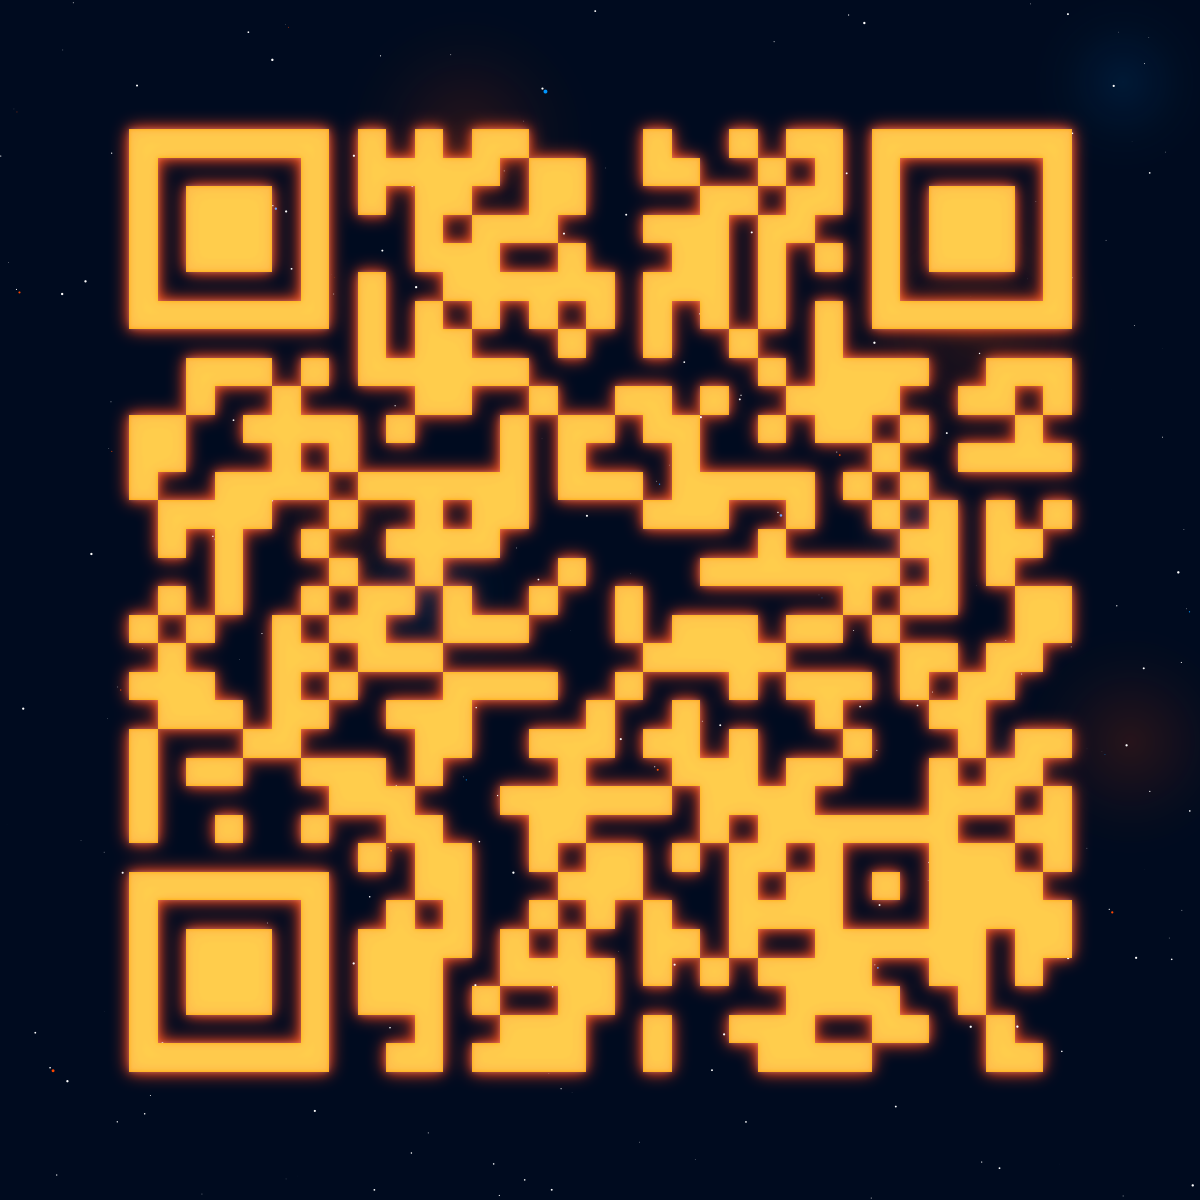
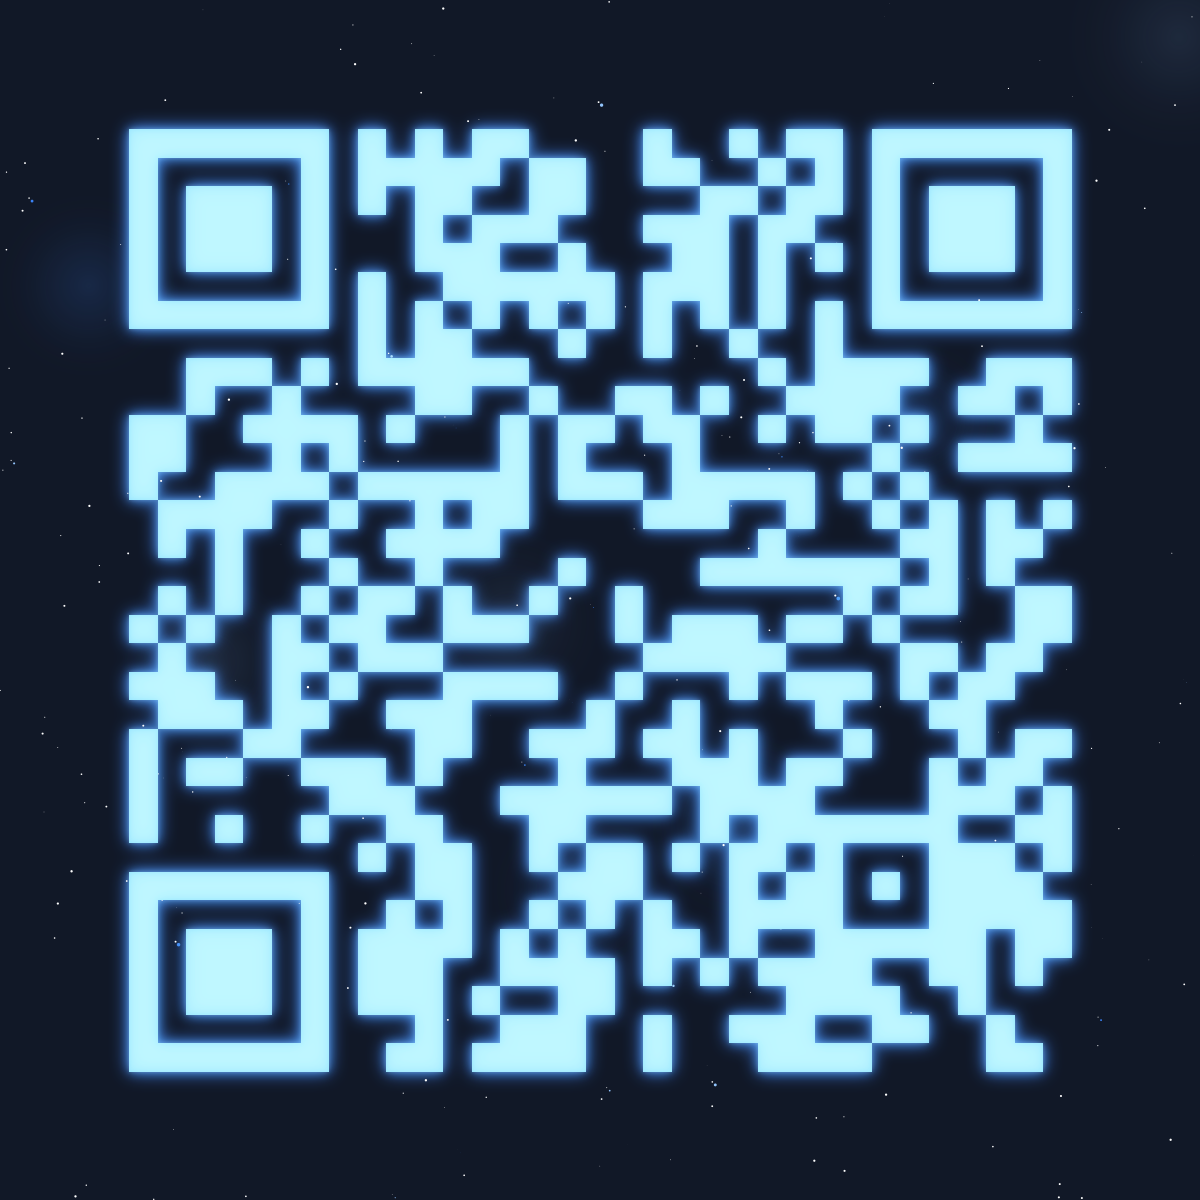
color changes

diff --git a/scripts/generateQR.js b/scripts/generateQR.js
@@ -15,7 +15,7 @@ async function generateCustomQR() {
       quality: 0.95,
       margin: 1,
       color: {
-        dark: '#FF4500', // Pure orange-red
+        dark: '#3B82F6', // blue-500 from Tailwind
         light: '#00000000' // Transparent background
       },
       width: 1000,
@@ -25,24 +25,24 @@ async function generateCustomQR() {
     const canvas = createCanvas(1200, 1200);
     const ctx = canvas.getContext('2d');
 
-    // Fill with dark background
-    ctx.fillStyle = '#000B1F'; // Very dark blue
+    // Fill with dark background (matching website)
+    ctx.fillStyle = '#111827'; // gray-900 from Tailwind
     ctx.fillRect(0, 0, 1200, 1200);
 
     // Add galaxy swirls first (so they appear behind stars)
     for (let i = 0; i < 8; i++) {
       const x = Math.random() * canvas.width;
       const y = Math.random() * canvas.height;
-      const radius = Math.random() * 100 + 50; // Larger swirls
+      const radius = Math.random() * 100 + 50;
       
       // Create a spiral effect
       const gradient = ctx.createRadialGradient(x, y, 0, x, y, radius);
       if (i % 2 === 0) {
-        gradient.addColorStop(0, 'rgba(255, 69, 0, 0.15)'); // Orange swirl
-        gradient.addColorStop(0.5, 'rgba(255, 69, 0, 0.05)');
+        gradient.addColorStop(0, 'rgba(59, 130, 246, 0.15)'); // blue-500
+        gradient.addColorStop(0.5, 'rgba(59, 130, 246, 0.05)');
       } else {
-        gradient.addColorStop(0, 'rgba(0, 150, 255, 0.1)'); // Blue swirl
-        gradient.addColorStop(0.5, 'rgba(0, 150, 255, 0.03)');
+        gradient.addColorStop(0, 'rgba(147, 197, 253, 0.1)'); // blue-300
+        gradient.addColorStop(0.5, 'rgba(147, 197, 253, 0.03)');
       }
       gradient.addColorStop(1, 'rgba(0, 0, 0, 0)');
       
@@ -67,7 +67,7 @@ async function generateCustomQR() {
       // Add occasional colored stars
       if (i % 10 === 0) {
         ctx.beginPath();
-        ctx.fillStyle = i % 20 === 0 ? '#FF4500' : '#0096FF';
+        ctx.fillStyle = i % 20 === 0 ? '#3B82F6' : '#93C5FD'; // blue-500 and blue-300
         ctx.arc(x + 3, y + 3, size * 1.8, 0, Math.PI * 2);
         ctx.fill();
       }
@@ -85,19 +85,19 @@ async function generateCustomQR() {
     // Draw QR code on canvas
     ctx.drawImage(qrImage, x, y, qrSize, qrSize);
 
-    // Add orange glow effect to the QR code
+    // Add primary blue glow effect
     ctx.globalCompositeOperation = 'screen';
-    ctx.shadowColor = '#FF4500';
+    ctx.shadowColor = '#3B82F6'; // blue-500
     ctx.shadowBlur = 15;
     ctx.drawImage(qrImage, x, y, qrSize, qrSize);
     
-    // Add a second layer of orange glow for intensity
+    // Add a second layer of glow for intensity
     ctx.shadowBlur = 8;
     ctx.globalAlpha = 0.7;
     ctx.drawImage(qrImage, x, y, qrSize, qrSize);
 
-    // Add subtle blue accent glow
-    ctx.shadowColor = '#0096FF';
+    // Add lighter blue accent glow
+    ctx.shadowColor = '#93C5FD'; // blue-300
     ctx.shadowBlur = 4;
     ctx.globalAlpha = 0.3;
     ctx.drawImage(qrImage, x, y, qrSize, qrSize);
